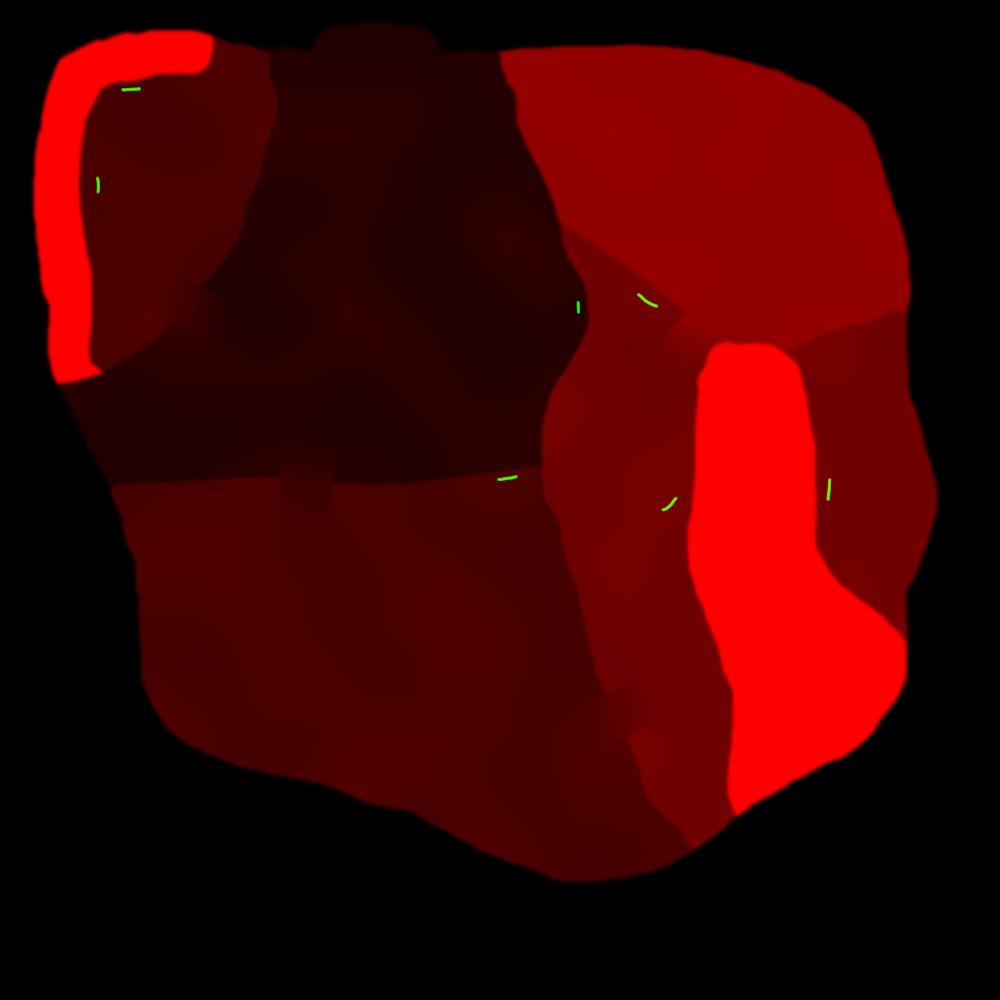
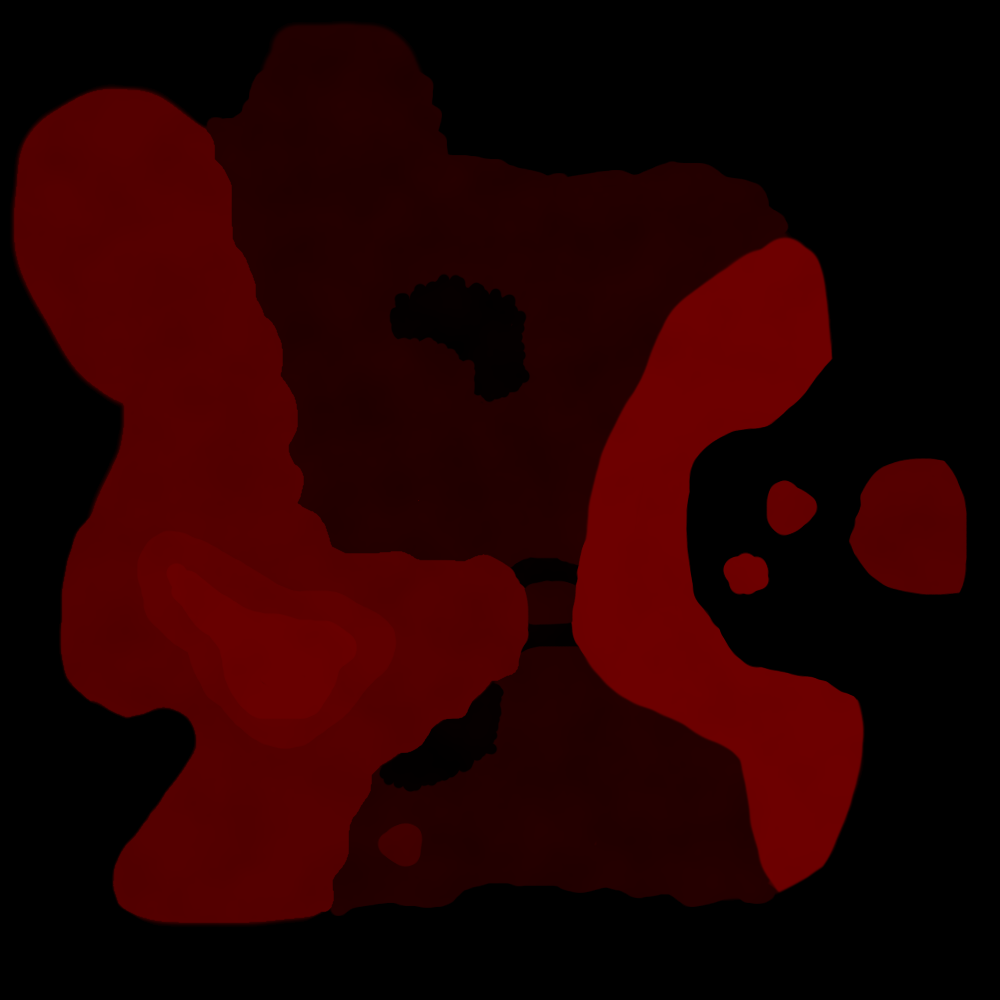
Changed heightmaps for desert and volcano maps. moved bridges to match new heightmaps

diff --git a/fruithunter/Source/Level/LevelHandler/LevelHandler.cpp b/fruithunter/Source/Level/LevelHandler/LevelHandler.cpp
@@ -2,6 +2,7 @@
 #include "TerrainManager.h"
 #include "AudioHandler.h"
 #include "PerformanceTimer.h"
+#include "VariableSyncer.h"
 
 void LevelHandler::initialiseLevel0() {
 	Level level0;
@@ -41,9 +42,9 @@ void LevelHandler::initialiseLevel0() {
 	level0.m_heightMapDivision.push_back(XMINT2(1, 1));
 	level0.m_heightMapDivision.push_back(XMINT2(1, 1));
 
-	level0.m_heightMapScales.push_back(float3(1.f, 0.20f, 1.f) * 100);
+	level0.m_heightMapScales.push_back(float3(1.f, 0.40f, 1.f) * 100);
 	level0.m_heightMapScales.push_back(float3(1.f, 0.15f, 1.f) * 100);
-	level0.m_heightMapScales.push_back(float3(1.f, 0.20f, 1.f) * 100);
+	level0.m_heightMapScales.push_back(float3(1.f, 0.25f, 1.f) * 100);
 	level0.m_heightMapScales.push_back(float3(1.f, 0.10f, 1.f) * 100);
 
 	vector<string> maps(4);
@@ -122,8 +123,8 @@ void LevelHandler::placeBridge(float3 pos, float3 rot, float3 scale) {
 
 void LevelHandler::placeAllBridges() {
 	placeBridge(float3(103.2f, 3.1f, 39.f), float3(0.f, -0.1f, -0.07f), float3(1.9f, 1.f, 1.4f));
-	placeBridge(float3(35.f, 3.2f, 99.f), float3(0.f, 1.7f, 0.13f), float3(1.6f, 1.f, 1.4f));
-	placeBridge(float3(98.f, 8.2f, 152.f), float3(0.f, -0.1f, -0.13f), float3(1.8f, 1.f, 1.4f));
+	placeBridge(float3(35.f, 3.5f, 98.5f), float3(0.f, 1.7f, 0.02f), float3(1.6f, 1.f, 1.4f));
+	placeBridge(float3(99.2f, 7.9f, 155.f), float3(0.f, 0.f, -0.09f), float3(1.3f, 1.f, 1.4f));
 }
 
 void LevelHandler::placeAllAnimals() {
@@ -164,8 +165,10 @@ void LevelHandler::initialise() {
 
 	waterEffect.initilize(SeaEffect::SeaEffectTypes::water, XMINT2(400, 400), XMINT2(1, 1),
 		float3(0.f, 1.f, 0.f) - float3(100.f, 0.f, 100.f), float3(400.f, 2.f, 400.f));
+	float3 lavaSize(82.f, 0.f, 82.f);
+	float3 lavaPos(150, 1.5f,150); 
 	lavaEffect.initilize(SeaEffect::SeaEffectTypes::lava, XMINT2(100, 100), XMINT2(1, 1),
-		float3(100.f, 2.f, 100.f), float3(100.f, 2.f, 100.f));
+		lavaPos - lavaSize / 2.f, lavaSize + float3(0, 2.f, 0));
 
 	PerformanceTimer::stop();
 }
@@ -307,6 +310,16 @@ void LevelHandler::drawShadowDynamicEntities() {
 
 void LevelHandler::update(float dt) {
 	PerformanceTimer::start("LevelHandler_Update", PerformanceTimer::TimeState::state_average);
+
+	entities[0]->setPosition(b1Pos);
+	entities[0]->setRotation(b1Rot);
+	entities[0]->setScale(b1Scale);
+	entities[1]->setPosition(b2Pos);
+	entities[1]->setRotation(b2Rot);
+	entities[1]->setScale(b2Scale);
+	entities[2]->setPosition(b3Pos);
+	entities[2]->setRotation(b3Rot);
+	entities[2]->setScale(b3Scale);
 
 	m_terrainProps.update(dt, m_player.getCameraPosition(), m_player.getForward());
 

diff --git a/fruithunter/Source/Drawable/Entity.h b/fruithunter/Source/Drawable/Entity.h
@@ -13,7 +13,6 @@ private:
 	float4x4 m_matRotation;
 	bool m_transformPropertiesChanged = false; // if position, rotation or scale is changed then the
 											   // model matrix is updated when it is fetched
-
 	shared_ptr<Mesh> m_mesh;
 
 	Microsoft::WRL::ComPtr<ID3D11Buffer> m_modelMatrixBuffer;
@@ -37,6 +36,7 @@ protected:
 
 
 public:
+	float3* getPosPtr();
 	string getModelName() const;
 	float4x4 getModelMatrix();
 	float4x4 getRotationMatrix() const;

diff --git a/fruithunter/Source/Drawable/Entity.cpp b/fruithunter/Source/Drawable/Entity.cpp
@@ -55,6 +55,8 @@ bool Entity::atOrUnder(float terrainHeight) const {
 	return m_position.y <= (terrainHeight + getHalfSizes().y / 2.f);
 }
 
+float3* Entity::getPosPtr() { return &m_position; }
+
 string Entity::getModelName() const {
 	if (m_mesh != nullptr) {
 		return m_mesh->getName();
